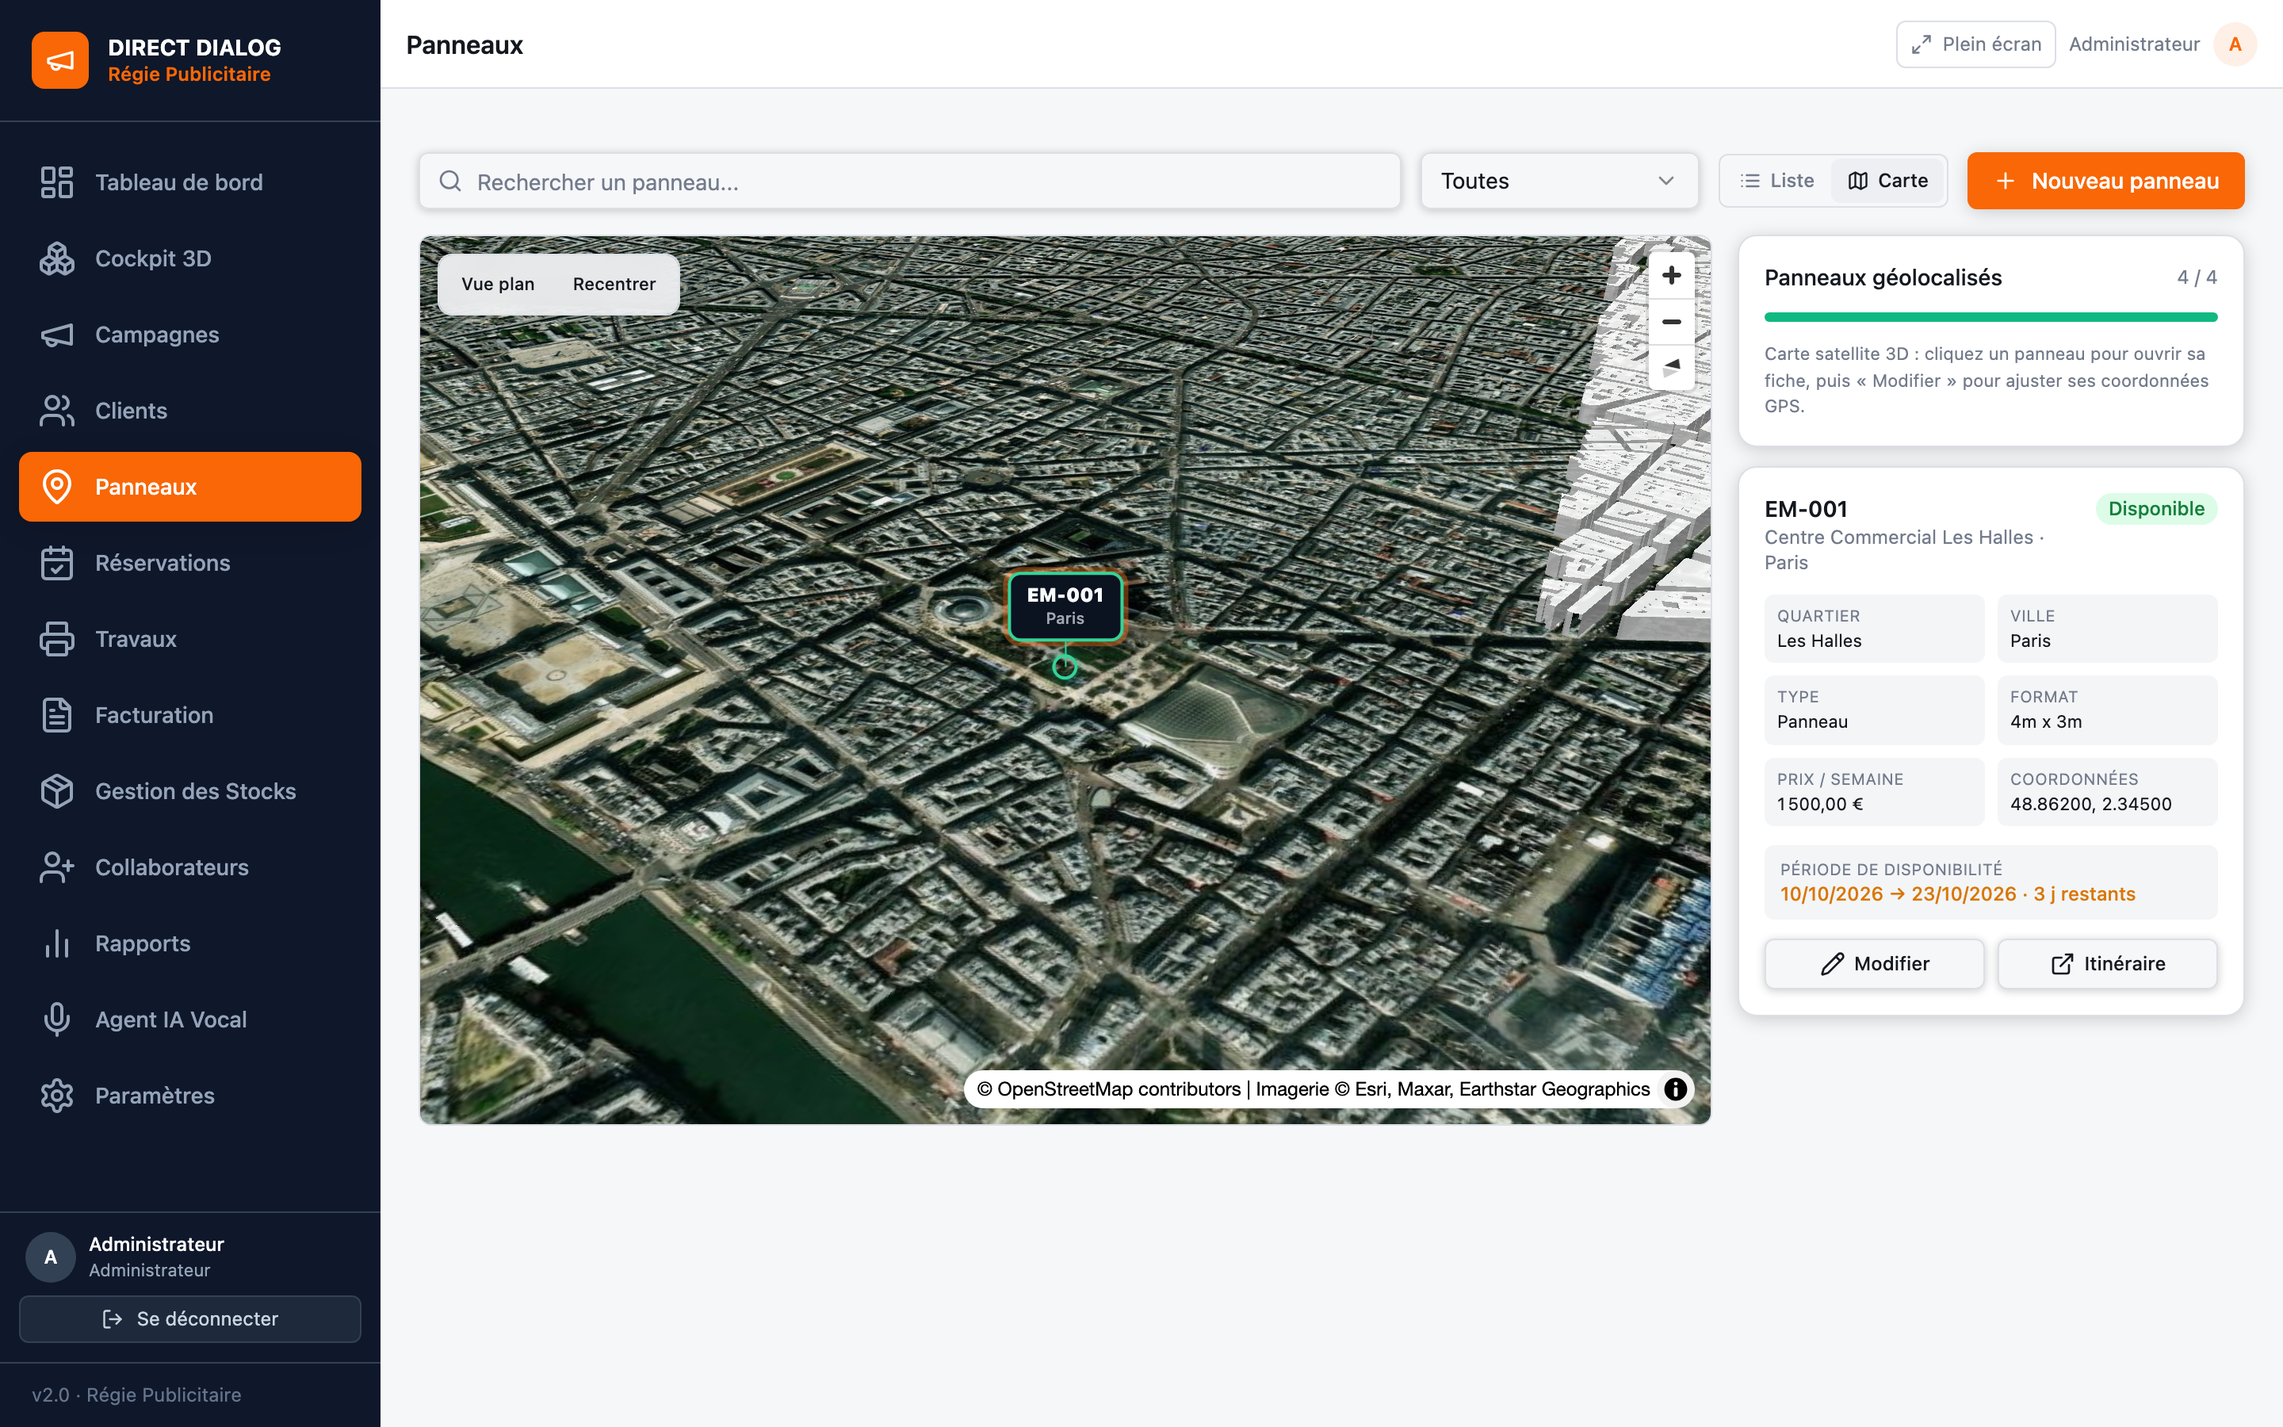
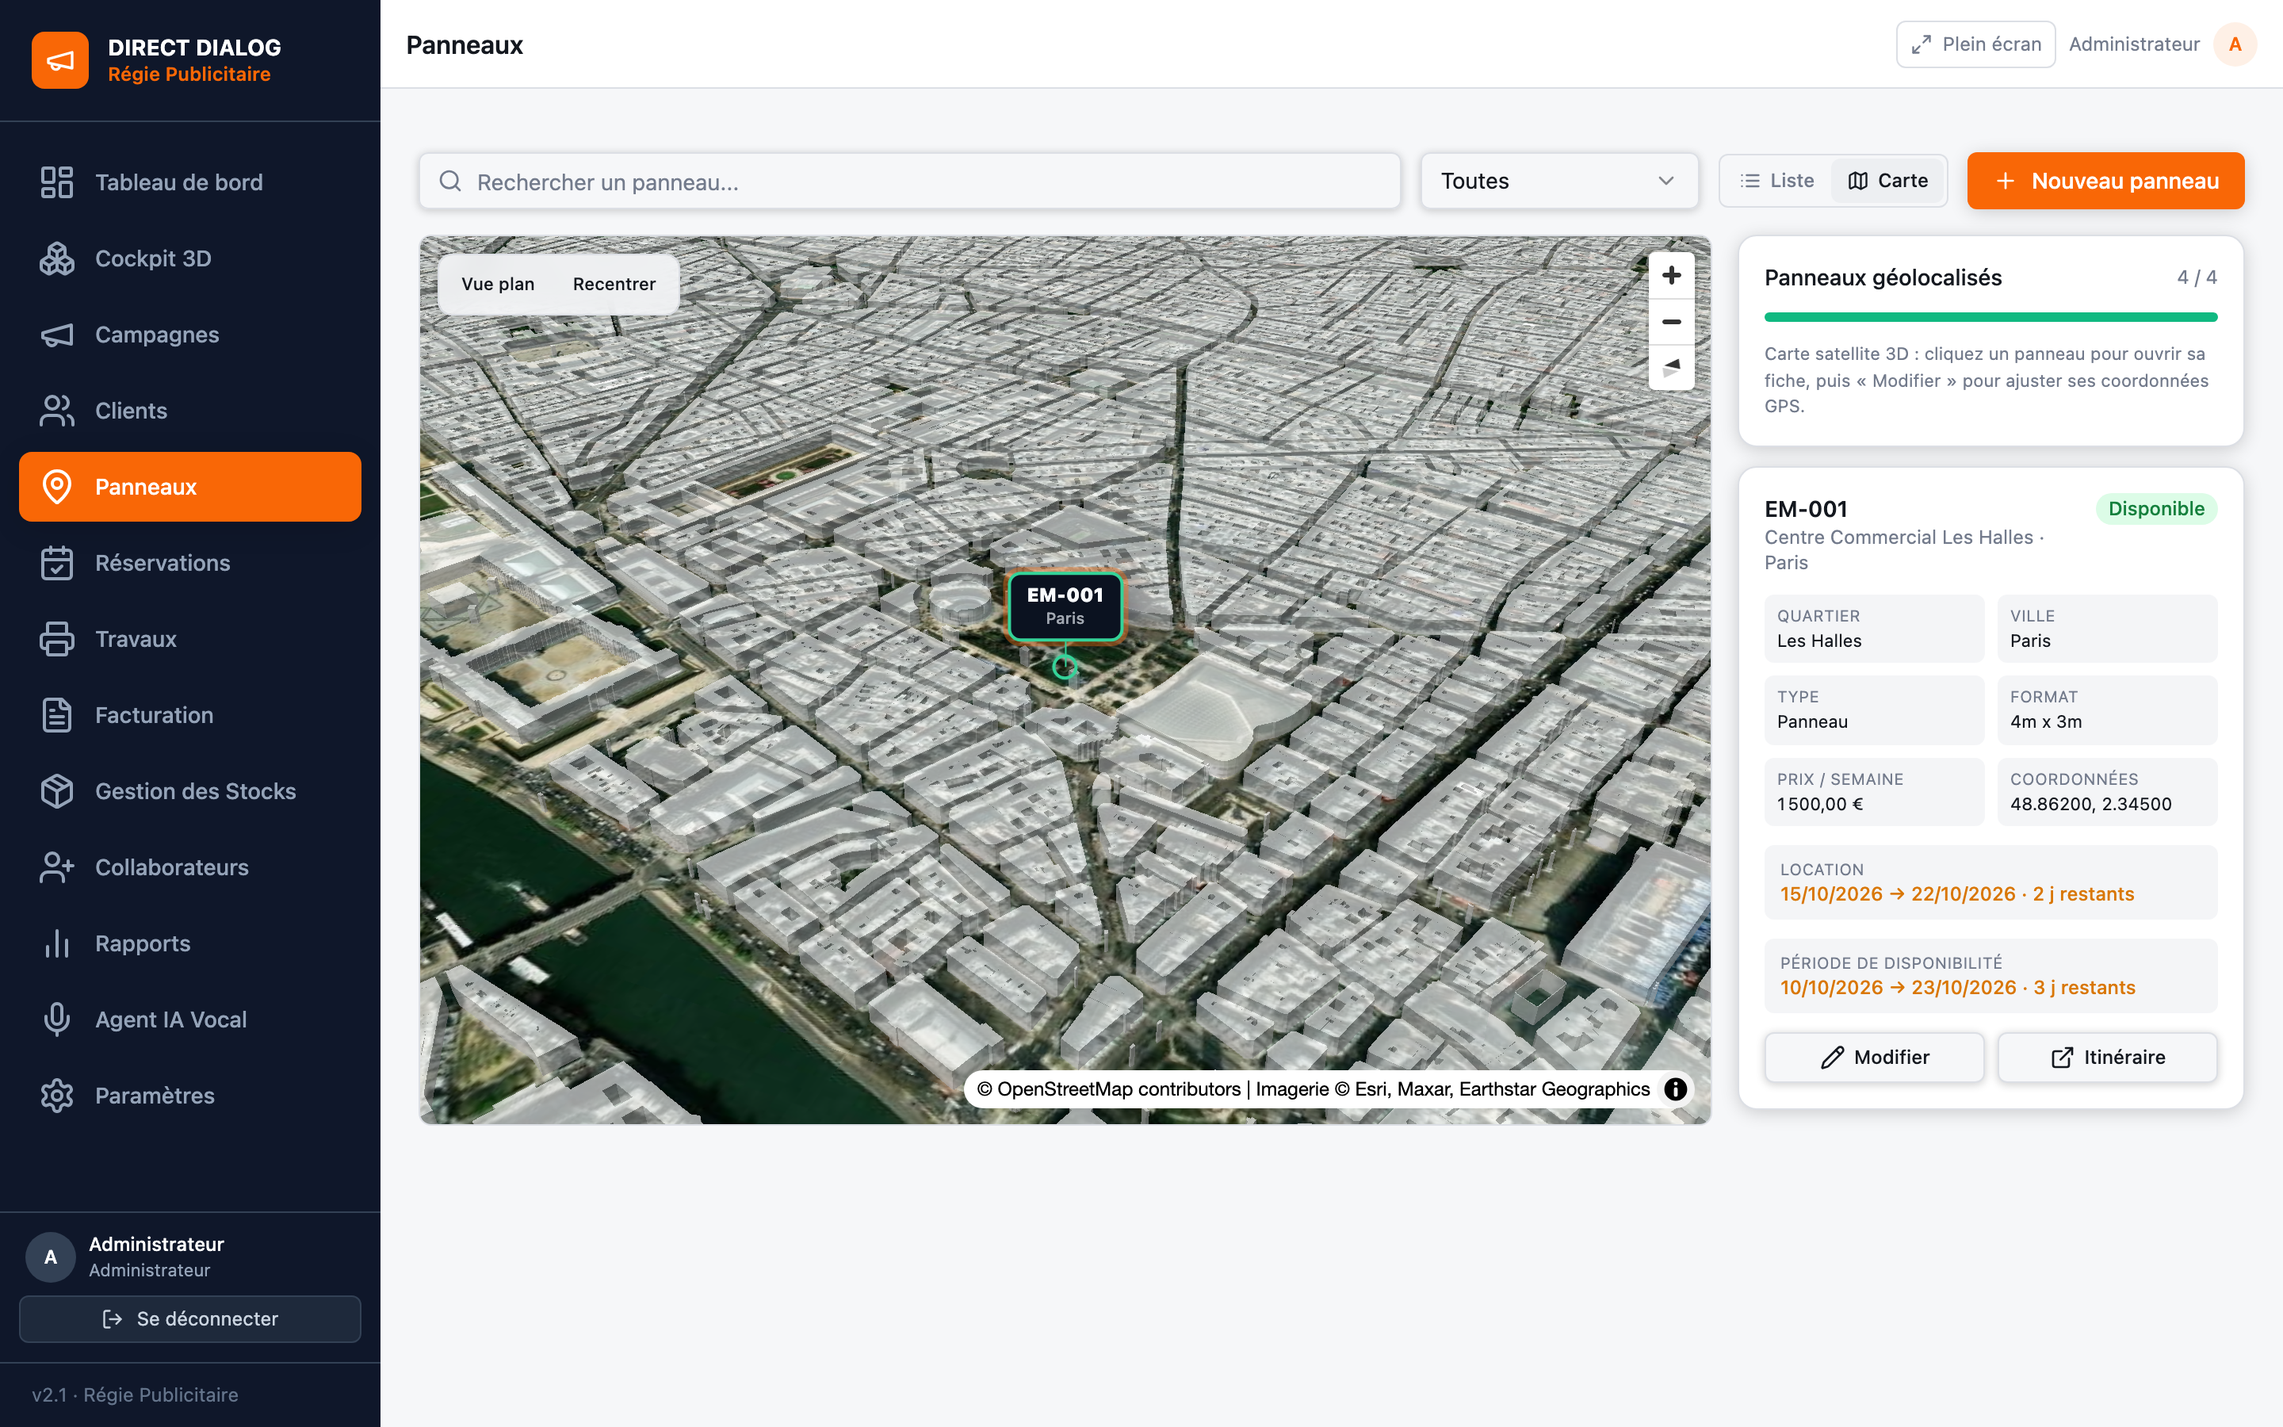
feat: dates de location des panneaux (v2.2.0)
- champs début et fin de location sur les panneaux
- fiche et liste : période de location avec jours restants
- alertes et récapitulatif quotidien basés sur la fin de location en priorité
- libellé Location / Disponibilité dans les échéances

diff --git a/apps/adcampaign-manager/src/pages/Emplacements.tsx b/apps/adcampaign-manager/src/pages/Emplacements.tsx
@@ -33,12 +33,12 @@ const dateFr = (valeur?: string) => {
   return jour && mois && annee ? `${jour}/${mois}/${annee}` : valeur;
 };
 
-function periodePanneau(e: { disponibleDu?: string; disponibleAu?: string }) {
-  const du = dateFr(e.disponibleDu);
-  const au = dateFr(e.disponibleAu);
-  if (!du && !au) return { texte: 'Non renseignée', ton: 'text-muted-foreground', jours: null as number | null };
+function periodeDates(duIso?: string, auIso?: string, vide = 'Non renseignée') {
+  const du = dateFr(duIso);
+  const au = dateFr(auIso);
+  if (!du && !au) return { texte: vide, ton: 'text-muted-foreground', jours: null as number | null };
   if (du && au) {
-    const fin = new Date(`${e.disponibleAu}T00:00:00`);
+    const fin = new Date(`${auIso}T00:00:00`);
     const aujourd = new Date();
     aujourd.setHours(0, 0, 0, 0);
     const jours = Math.round((fin.getTime() - aujourd.getTime()) / 86_400_000);
@@ -49,6 +49,12 @@ function periodePanneau(e: { disponibleDu?: string; disponibleAu?: string }) {
   }
   return { texte: du ? `À partir du ${du}` : `Jusqu'au ${au}`, ton: 'text-muted-foreground', jours: null };
 }
+
+const periodePanneau = (e: { disponibleDu?: string; disponibleAu?: string }) =>
+  periodeDates(e.disponibleDu, e.disponibleAu);
+
+const locationPanneau = (e: { locationDu?: string; locationAu?: string }) =>
+  periodeDates(e.locationDu, e.locationAu, 'Aucune location en cours');
 
 const coordonnees = (e: { latitude?: number; longitude?: number }) =>
   e.latitude != null && e.longitude != null
@@ -109,6 +115,8 @@ export default function PanneauxPage() {
         quartier: form.quartier || undefined,
         disponibleDu: form.disponibleDu || undefined,
         disponibleAu: form.disponibleAu || undefined,
+        locationDu: form.locationDu || undefined,
+        locationAu: form.locationAu || undefined,
       } as any);
       toast.success(form.id ? 'Panneau mis à jour' : 'Panneau créé');
       setDialogOpen(false);
@@ -260,6 +268,15 @@ export default function PanneauxPage() {
 
                   <div className="rounded-md bg-muted/60 px-2.5 py-2">
                     <p className="text-[10px] uppercase tracking-wide text-muted-foreground">
+                      Location
+                    </p>
+                    <p className={cn('text-xs font-medium', locationPanneau(panneauSelectionne).ton)}>
+                      {locationPanneau(panneauSelectionne).texte}
+                    </p>
+                  </div>
+
+                  <div className="rounded-md bg-muted/60 px-2.5 py-2">
+                    <p className="text-[10px] uppercase tracking-wide text-muted-foreground">
                       Période de disponibilité
                     </p>
                     <p className={cn('text-xs font-medium', periodePanneau(panneauSelectionne).ton)}>
@@ -328,7 +345,7 @@ export default function PanneauxPage() {
                         'Format',
                         'Prix/semaine',
                         'Coordonnées GPS',
-                        'Période',
+                        'Location',
                         'Disponibilité',
                         '',
                       ].map((h) => (
@@ -354,8 +371,8 @@ export default function PanneauxPage() {
                         <td className="px-4 py-3 text-muted-foreground tabular-nums text-xs">
                           {coordonnees(e)}
                         </td>
-                        <td className={cn('px-4 py-3 text-xs', periodePanneau(e).ton)}>
-                          {periodePanneau(e).texte}
+                        <td className={cn('px-4 py-3 text-xs', locationPanneau(e).ton)}>
+                          {locationPanneau(e).texte}
                         </td>
                         <td className="px-4 py-3">
                           <StatusBadge status={e.disponibilite} />
@@ -449,6 +466,22 @@ export default function PanneauxPage() {
                 type="date"
                 value={form.disponibleAu ?? ''}
                 onChange={(e) => set('disponibleAu', e.target.value)}
+              />
+            </div>
+            <div>
+              <Label>Début de location</Label>
+              <Input
+                type="date"
+                value={form.locationDu ?? ''}
+                onChange={(e) => set('locationDu', e.target.value)}
+              />
+            </div>
+            <div>
+              <Label>Fin de location</Label>
+              <Input
+                type="date"
+                value={form.locationAu ?? ''}
+                onChange={(e) => set('locationAu', e.target.value)}
               />
             </div>
             <div>

diff --git a/server/src/alertes.ts b/server/src/alertes.ts
@@ -22,6 +22,9 @@ export type AlertePanneau = {
   localisation: string;
   du: string;
   au: string;
+  locationDu: string;
+  locationAu: string;
+  typePeriode: 'location' | 'disponibilite';
   joursRestants: number;
   etat: 'termine' | 'se_termine' | 'a_venir' | 'disponible';
 };
@@ -43,8 +46,15 @@ export function analyserPanneaux(rows: Ligne[], alerteJours = 7, aujourdHui = ne
   const alertes: AlertePanneau[] = [];
 
   for (const row of rows) {
-    const du = jourDe(row.disponibleDu);
-    const au = jourDe(row.disponibleAu);
+    // La location prime : c'est elle qui porte l'échéance contractuelle.
+    const locationDu = jourDe(row.locationDu);
+    const locationAu = jourDe(row.locationAu);
+    const dispoDu = jourDe(row.disponibleDu);
+    const dispoAu = jourDe(row.disponibleAu);
+
+    const enLocation = Boolean(locationDu || locationAu);
+    const du = enLocation ? locationDu : dispoDu;
+    const au = enLocation ? locationAu : dispoAu;
     if (!du && !au) continue;
 
     const fin = au ?? du!;
@@ -62,8 +72,11 @@ export function analyserPanneaux(rows: Ligne[], alerteJours = 7, aujourdHui = ne
       quartier: row.quartier ?? '',
       ville: row.ville ?? '',
       localisation: row.localisation ?? '',
-      du: row.disponibleDu ?? '',
-      au: row.disponibleAu ?? '',
+      du: enLocation ? (row.locationDu ?? '') : (row.disponibleDu ?? ''),
+      au: enLocation ? (row.locationAu ?? '') : (row.disponibleAu ?? ''),
+      locationDu: row.locationDu ?? '',
+      locationAu: row.locationAu ?? '',
+      typePeriode: enLocation ? 'location' : 'disponibilite',
       joursRestants,
       etat,
     });
@@ -85,17 +98,18 @@ export function messageAlertePanneaux(alertes: AlertePanneau[], alerteJours: num
   const lignes = alertes.map((a) => {
     const periode = `${fmtDate(a.du)} → ${fmtDate(a.au)}`;
     const lieu = [a.quartier, a.ville].filter(Boolean).join(', ');
+    const intitule = a.typePeriode === 'location' ? 'Location' : 'Disponibilité';
     let echeance: string;
     if (a.joursRestants < 0) echeance = `terminée depuis ${Math.abs(a.joursRestants)} jour(s)`;
     else if (a.joursRestants === 0) echeance = "se termine aujourd'hui";
     else echeance = `se termine dans ${a.joursRestants} jour(s)`;
-    return `• ${a.reference} — ${lieu}${a.localisation ? ` (${a.localisation})` : ''}\n  ${periode} · ${echeance}`;
+    return `• ${a.reference} — ${lieu}${a.localisation ? ` (${a.localisation})` : ''}\n  ${intitule} : ${periode} · ${echeance}`;
   });
 
   const texte = [
     entete,
     '',
-    `${alertes.length} panneau(x) à surveiller (seuil ${alerteJours} jour(s)) :`,
+    `${alertes.length} échéance(s) à surveiller (seuil ${alerteJours} jour(s)) :`,
     '',
     ...lignes,
     '',

diff --git a/.zite/db.ts b/.zite/db.ts
@@ -147,6 +147,10 @@ export type EmplacementsRecordType = {
   disponibleDu?: string;
   /** Fin de la période de disponibilité (YYYY-MM-DD) */
   disponibleAu?: string;
+  /** Début de la location (YYYY-MM-DD) */
+  locationDu?: string;
+  /** Fin de la location (YYYY-MM-DD) */
+  locationAu?: string;
   photo?: ZiteAttachment[];
   /** Links to reservations ("Réservations"). Single record only. "Réservations" */
   reservations?: string | string[];
@@ -166,6 +170,8 @@ export type EmplacementsRecordInput = {
   quartier: string | null;
   disponibleDu: string | null;
   disponibleAu: string | null;
+  locationDu: string | null;
+  locationAu: string | null;
   photo: ZiteAttachmentInput[] | ZiteAttachmentInput | null;
   reservations: string | string[] | null;
 };

diff --git a/apps/adcampaign-manager/src/pages/Parametres.tsx b/apps/adcampaign-manager/src/pages/Parametres.tsx
@@ -681,7 +681,7 @@ function OngletSysteme({ onRafraichir }: { onRafraichir: () => Promise<void> }) 
           <CardDescription>Informations techniques de l’installation.</CardDescription>
         </CardHeader>
         <CardContent className="space-y-3 text-sm">
-          <Ligne libelle="Version" valeur="2.1.0" />
+          <Ligne libelle="Version" valeur="2.2.0" />
           <Ligne libelle="Société" valeur={data?.societe?.nom ?? '—'} />
           <Ligne libelle="Devise" valeur={data?.societe?.devise ?? '—'} />
           <Ligne libelle="TVA par défaut" valeur={`${data?.societe?.tauxTva ?? 0} %`} />

diff --git a/apps/adcampaign-manager/src/api/getEmplacements.ts b/apps/adcampaign-manager/src/api/getEmplacements.ts
@@ -20,6 +20,8 @@ export default createEndpoint({
       quartier: z.string().optional(),
       disponibleDu: z.string().optional(),
       disponibleAu: z.string().optional(),
+      locationDu: z.string().optional(),
+      locationAu: z.string().optional(),
     })),
   }),
   execute: async ({ input }) => {
@@ -49,6 +51,8 @@ export default createEndpoint({
         quartier: e.quartier,
         disponibleDu: e.disponibleDu,
         disponibleAu: e.disponibleAu,
+        locationDu: e.locationDu,
+        locationAu: e.locationAu,
       })),
     };
   },

diff --git a/apps/adcampaign-manager/src/components/ParametresNotifications.tsx b/apps/adcampaign-manager/src/components/ParametresNotifications.tsx
@@ -349,6 +349,7 @@ export default function ParametresNotifications() {
                       </span>
                     </p>
                     <p className="text-xs text-muted-foreground">
+                      {alerte.typePeriode === 'location' ? 'Location' : 'Disponibilité'} :{' '}
                       {dateFr(alerte.du)} → {dateFr(alerte.au)} ·{' '}
                       {alerte.joursRestants < 0
                         ? `terminée depuis ${Math.abs(alerte.joursRestants)} j`

diff --git a/server/src/schema.ts b/server/src/schema.ts
@@ -62,6 +62,8 @@ export const TABLES: Record<string, TableSchema> = {
       quartier: "single_line_text", // Quartier
       disponibleDu: "date", // Disponible du
       disponibleAu: "date", // Disponible au
+      locationDu: "date", // Début de location
+      locationAu: "date", // Fin de location
       photo: "attachments", // Photo
       reservations: "linked_record", // Réservations
     },

diff --git a/apps/adcampaign-manager/src/api/saveEmplacement.ts b/apps/adcampaign-manager/src/api/saveEmplacement.ts
@@ -18,6 +18,8 @@ export default createEndpoint({
     quartier: z.string().optional(),
     disponibleDu: z.string().optional(),
     disponibleAu: z.string().optional(),
+    locationDu: z.string().optional(),
+    locationAu: z.string().optional(),
   }),
   outputSchema: z.object({ id: z.string(), success: z.boolean() }),
   execute: async ({ input }) => {

diff --git a/apps/adcampaign-manager/src/components/Carte3DPanneaux.tsx b/apps/adcampaign-manager/src/components/Carte3DPanneaux.tsx
@@ -70,8 +70,8 @@ const STYLE: StyleSpecification = {
       minzoom: 13,
       paint: {
         'fill-extrusion-color': '#ffffff',
-        'fill-extrusion-height': 28,
-        'fill-extrusion-opacity': 0.9,
+        'fill-extrusion-height': 18,
+        'fill-extrusion-opacity': 0.62,
       },
     },
   ],

diff --git a/apps/adcampaign-manager/src/components/Layout.tsx b/apps/adcampaign-manager/src/components/Layout.tsx
@@ -129,7 +129,7 @@ export default function Layout({ children }: { children: React.ReactNode }) {
         </div>
 
         <div className="px-5 py-3 border-t border-slate-700 text-xs text-slate-500">
-          v2.1 · Régie Publicitaire
+          v2.2 · Régie Publicitaire
         </div>
       </aside>
 

diff --git a/apps/adcampaign-manager/src/lib/notifications.ts b/apps/adcampaign-manager/src/lib/notifications.ts
@@ -15,6 +15,9 @@ export type AlertePanneau = {
   localisation: string;
   du: string;
   au: string;
+  locationDu: string;
+  locationAu: string;
+  typePeriode: 'location' | 'disponibilite';
   joursRestants: number;
   etat: 'termine' | 'se_termine' | 'a_venir' | 'disponible';
 };

diff --git a/README.md b/README.md
@@ -155,12 +155,16 @@ Cliquer un panneau **sur la carte 3D ou dans la liste** ouvre sa fiche complète
 
 - **quartier**, ville, localisation précise ;
 - type, format, prix par semaine, coordonnées GPS ;
+- **location** : dates de début et de fin, avec le nombre de jours restants ;
 - **période de disponibilité** (du → au) avec le nombre de jours restants, en vert, ambre
   ou rouge selon l'échéance ;
 - bouton **Itinéraire** (Google Maps).
 
-Les dates se renseignent dans le formulaire du panneau (*Disponible du / Disponible au*),
-avec le quartier.
+Les dates se renseignent dans le formulaire du panneau : **Début de location**,
+**Fin de location**, **Disponible du**, **Disponible au**, avec le quartier.
+
+La **location** est l'échéance prioritaire : c'est elle qui déclenche les alertes. À défaut,
+la période de disponibilité est utilisée.
 
 ### Notifications e-mail, Telegram et WhatsApp
 
@@ -174,10 +178,11 @@ avec le quartier.
 | **Telegram** | jeton du bot, chat ID |
 | **WhatsApp** | jeton Meta Cloud API, identifiant du numéro, destinataire |
 
-Chaque jour à **l'heure choisie**, le serveur envoie un récapitulatif des panneaux dont la
-période se termine dans les **N jours** (seuil réglable) ou vient de se terminer. Le message
-précise pour chaque panneau : référence, quartier, ville, localisation, **du → au**, et
-l'échéance (« se termine dans 3 jours », « terminée depuis 2 jours »).
+Chaque jour à **l'heure choisie**, le serveur envoie un récapitulatif des locations (ou, à
+défaut, des disponibilités) qui se terminent dans les **N jours** (seuil réglable) ou
+viennent de se terminer. Le message précise pour chaque panneau : référence, quartier,
+ville, localisation, **Location : du → au**, et l'échéance (« se termine dans 3 jours »,
+« terminée depuis 2 jours »).
 
 - Boutons **Tester** par canal et **Envoyer le récapitulatif maintenant**.
 - **Historique** des 30 derniers envois et date du dernier envoi.
